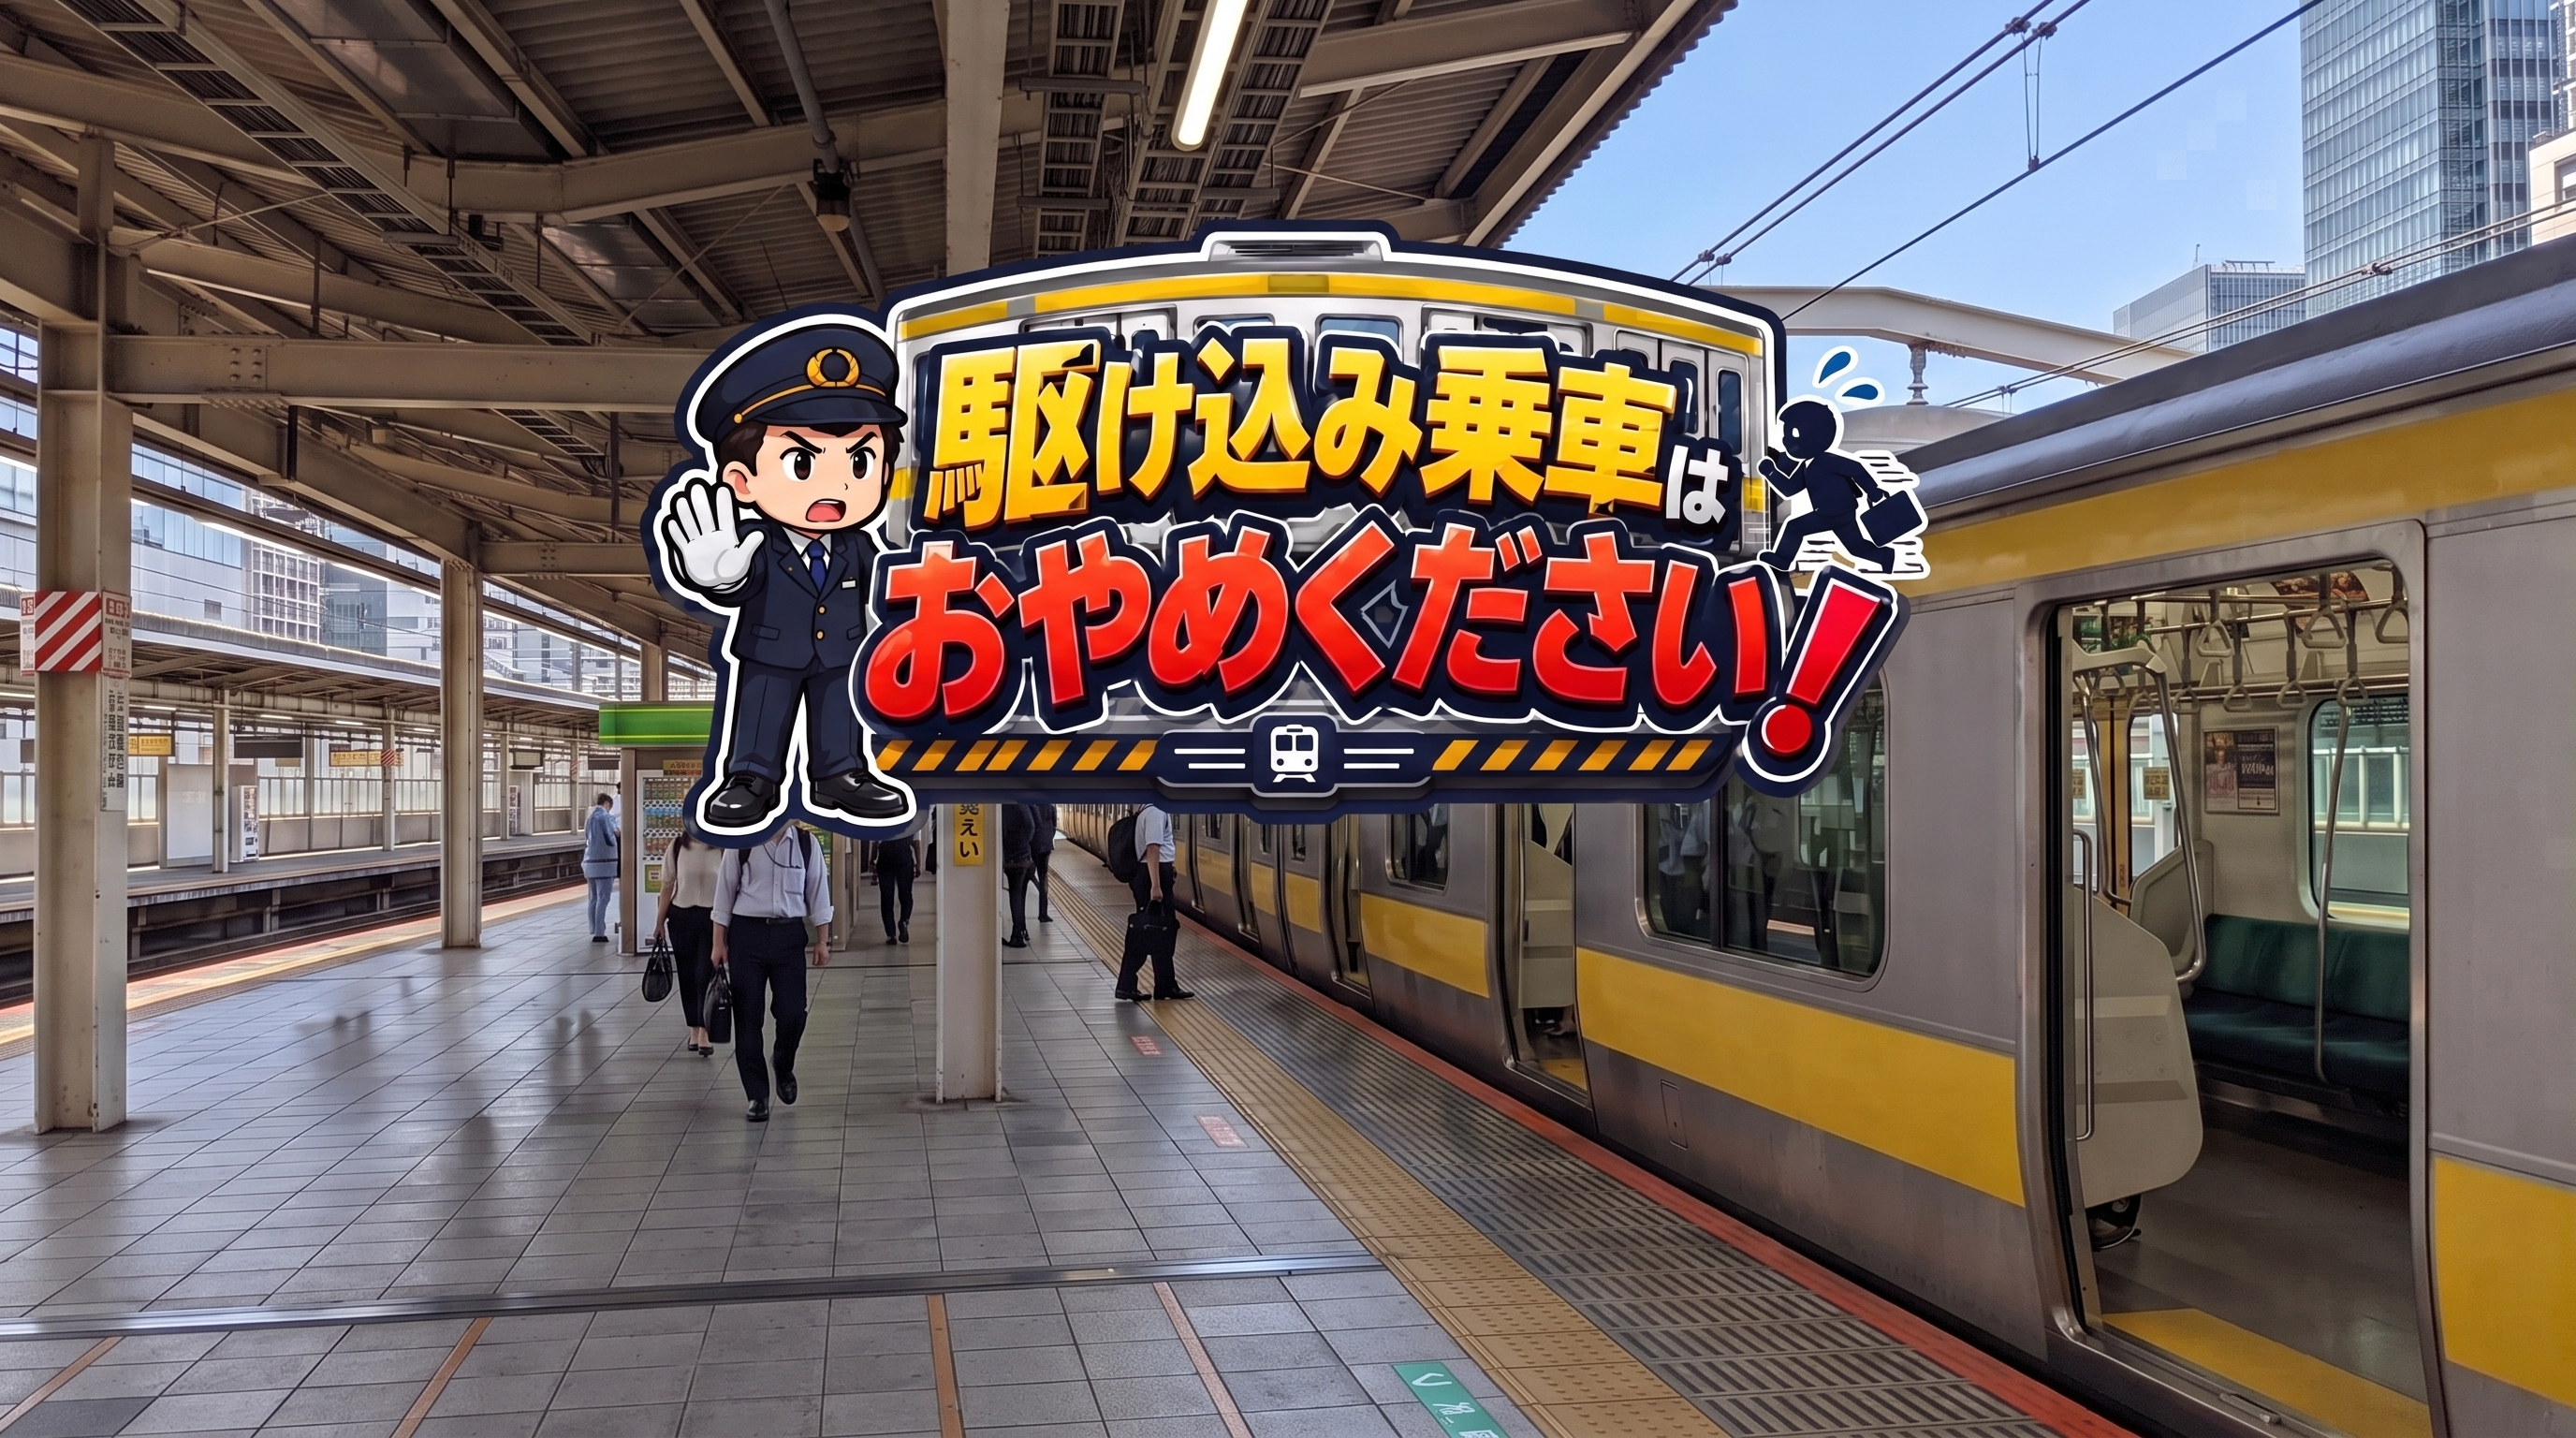
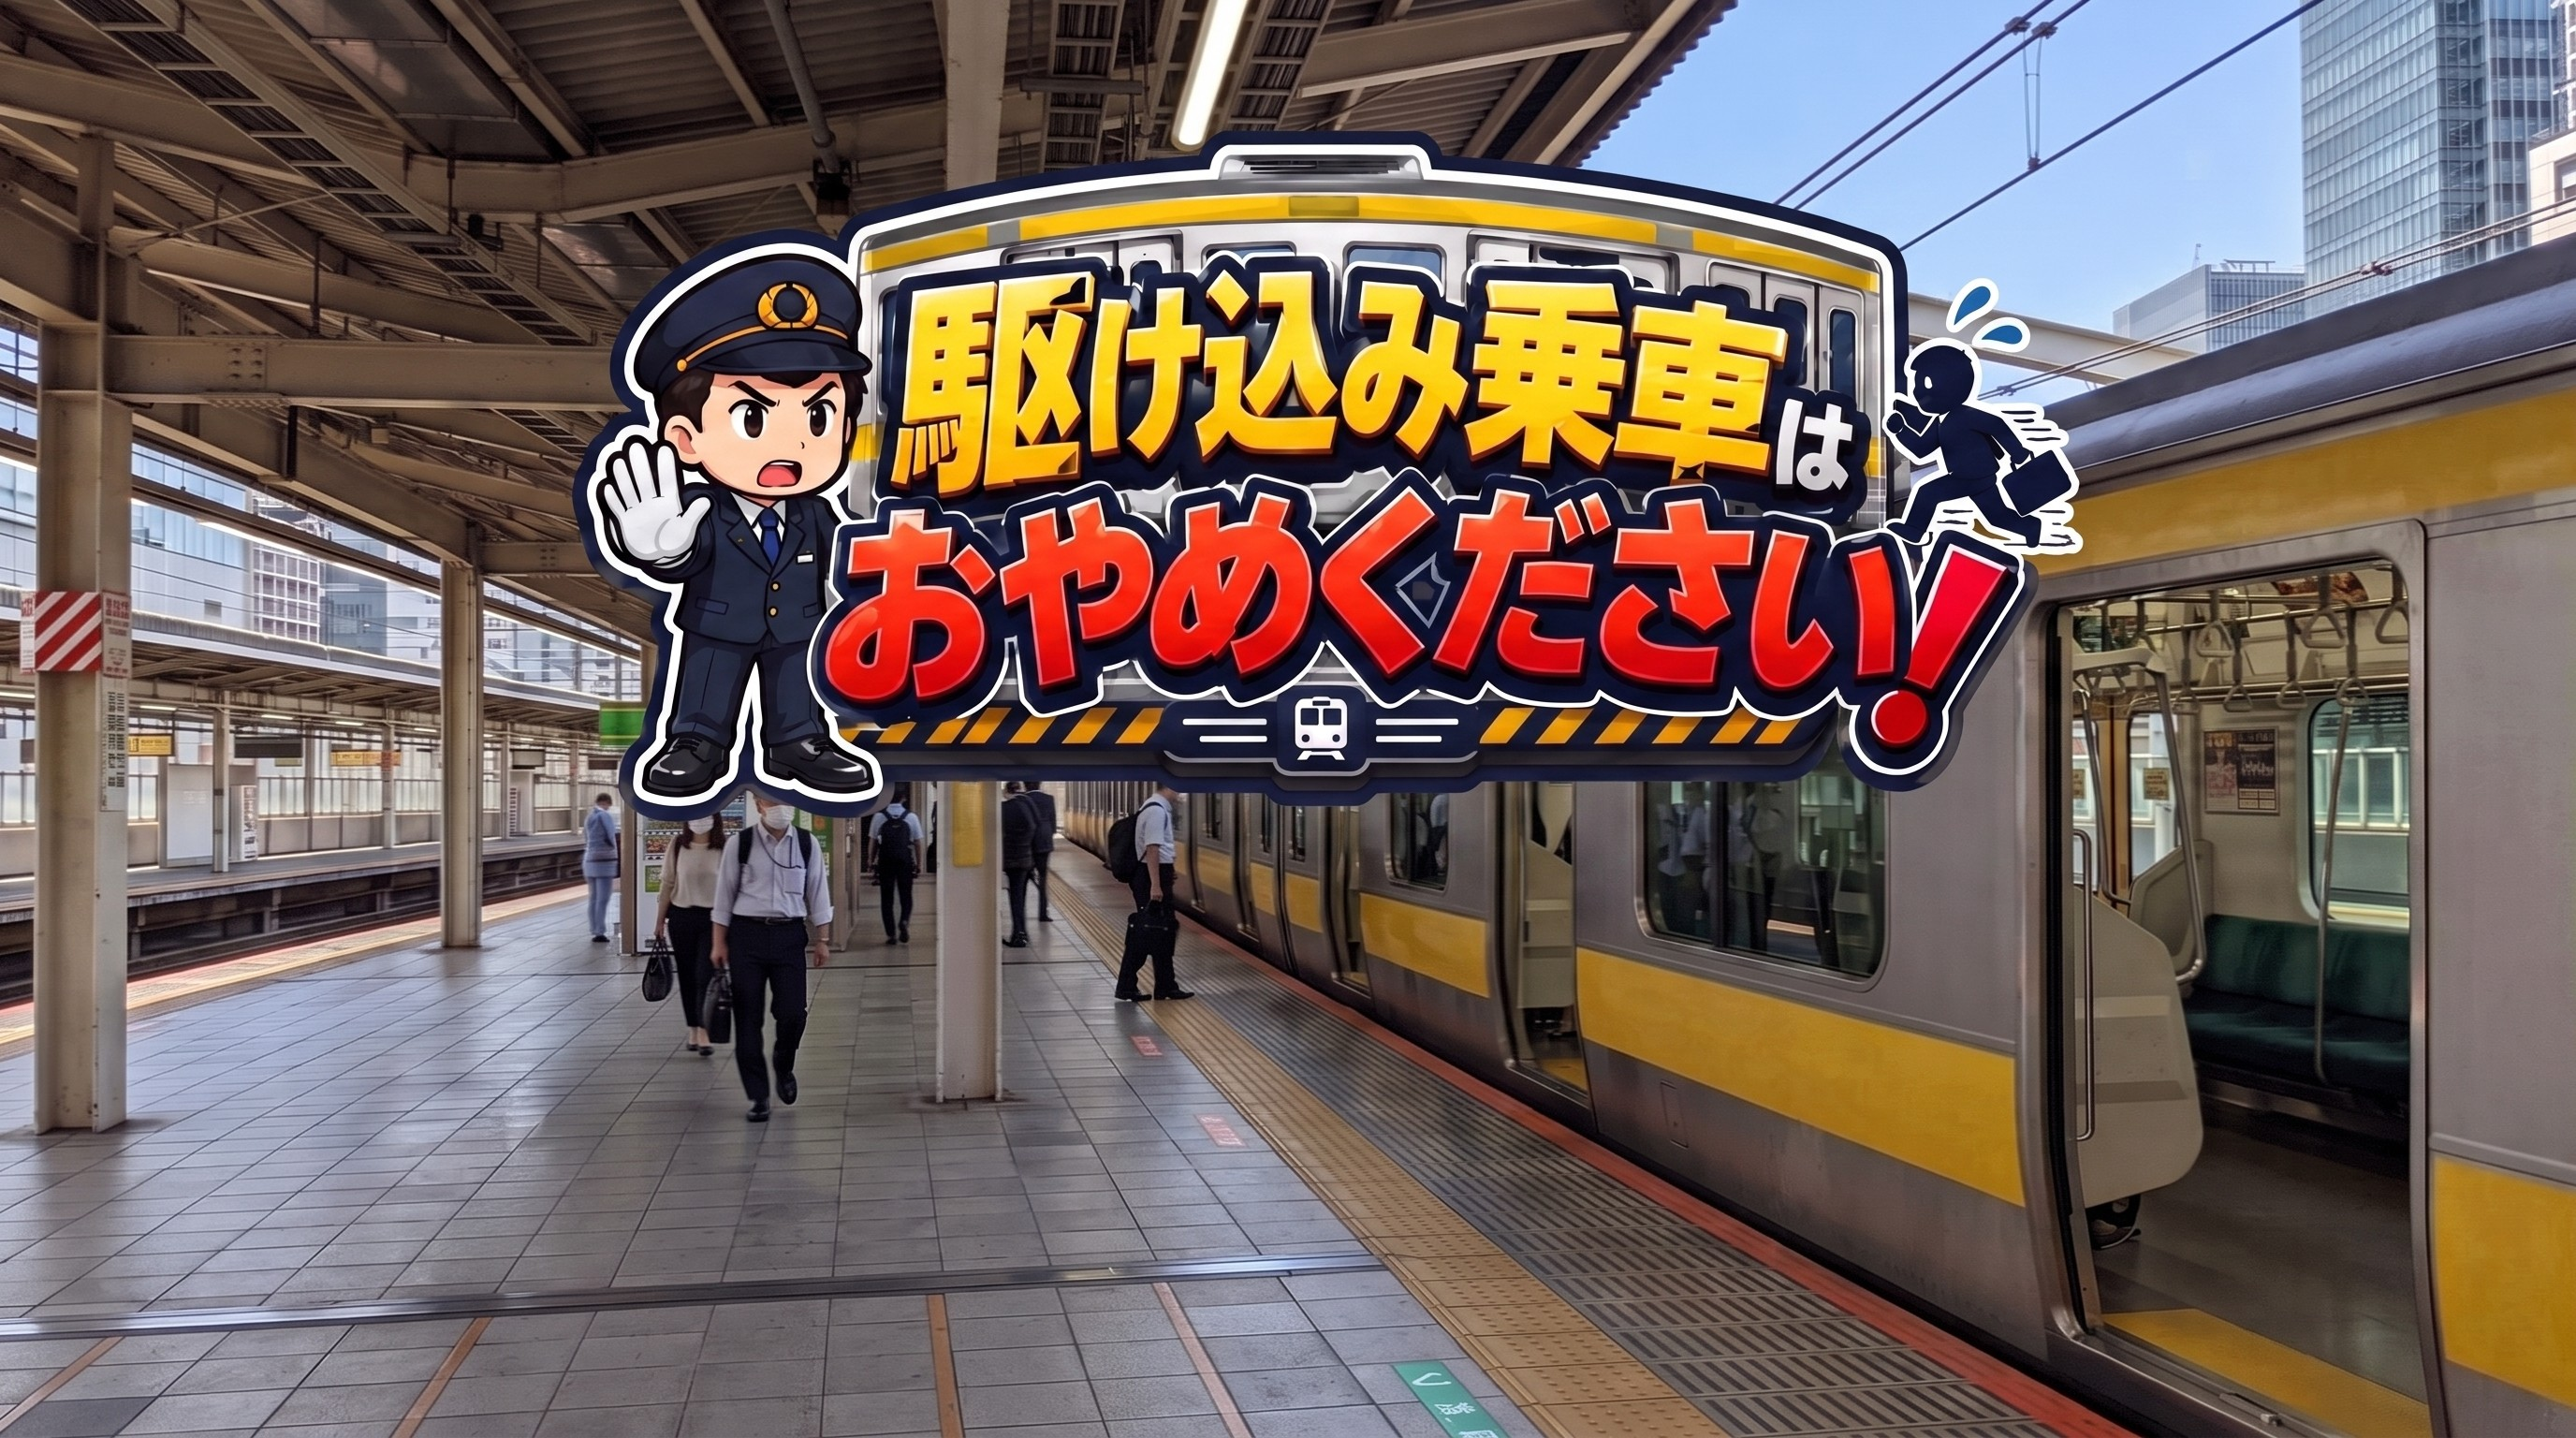
feat: トップ画面作成

diff --git a/style.css b/style.css
@@ -22,7 +22,6 @@ canvas {
 /* ==================================== */
 #top-menu {
     position: absolute;
-    top: 0;
     left: 0;
     width: 100%;
     height: 100%;
@@ -30,12 +29,6 @@ canvas {
     background-image: url("images/top.jpeg"); /* top.jpegを背景画像として設定 */
     background-size: cover; /* 背景画像を要素全体に広げる */
     background-position: center; /* 背景画像を中央に配置 */
-    background-color: rgba(
-        0,
-        0,
-        0,
-        0.5
-    ); /* 画像の上に半透明の黒いオーバーレイをかける */
     display: flex;
     justify-content: center;
     align-items: center;
@@ -44,33 +37,134 @@ canvas {
 }
 .menu-content {
     text-align: center;
+    margin-top: 300px;
 }
 .game-title {
     font-size: 32px;
     color: #ffcc00; /* 黄色の文字カラー */
     margin-bottom: 40px;
     text-shadow: 2px 2px 4px #000;
+    font-family: Impact, sans-serif; /* ゲーム感のあるフォントに変更 */
 }
 .menu-list {
     list-style: none;
     padding: 0;
+    margin: 0; /* ulのデフォルトマージンをリセット */
+    display: flex; /* Flexboxを有効にして子要素を横並びにする */
+    justify-content: center; /* 子要素を水平方向の中央に配置 */
+    gap: 40px; /* ボタン間の間隔を40pxに設定 */
+    flex-wrap: wrap; /* 画面幅が狭い場合にボタンを折り返す */
 }
 .menu-list li {
-    font-size: 24px;
-    margin: 20px 0;
+    /* li要素自体のスタイルは最小限に */
+    margin: 0;
+    padding: 0;
+}
+
+/* メニューボタンのスタイル */
+.menu-button {
+    display: block; /* ブロック要素にして幅を制御 */
+    width: 300px; /* デスクトップでのボタン幅 */
+    padding: 20px 30px; /* パディングをさらに増やしてボタンを大きく */
+    margin: 20px 0; /* 上下マージンは維持し、左右マージンはgapで調整 */
+    background: linear-gradient(
+        145deg,
+        #4a4a4a,
+        /* ベースのグラデーションを少し明るく */ #2a2a2a
+    );
+    border: 4px solid #ffcc00; /* 枠線をさらに太く、目立つ黄色に */
+    color: #fff; /* ボタンの文字色 */
+    font-size: 17px; /* フォントサイズをさらに大きく */
+    font-family: Impact, sans-serif; /* ゲーム感のあるフォント */
     cursor: pointer;
-    transition: color 0.2s;
+    transition: all 0.15s ease-out; /* ホバー時のラグを短く、より素早く反応するように調整 */
+    text-align: center;
+    text-decoration: none;
+    border-radius: 15px; /* 角をさらに丸く */
+    /* 強化されたbox-shadowでより深い立体感と外側の光 */
+    box-shadow:
+        0 12px 25px rgba(0, 0, 0, 0.8),
+        /* より深いメインの影 */ inset 0 0 20px rgba(255, 255, 255, 0.3),
+        /* より強い内側の光 */ 0 0 15px rgba(255, 204, 0, 0.6); /* 外側の光 */
+    /* 強化されたtext-shadowで文字を光らせる */
+    text-shadow:
+        2px 2px 8px rgba(0, 0, 0, 0.9),
+        /* 強いメインの影 */ 0 0 10px rgba(255, 255, 255, 0.6); /* 文字の光 */
+    letter-spacing: 1px; /* 文字間隔を少し開ける */
+    transform: scale(1); /* 初期スケールを設定 */
+    animation: pulse-glow 2s infinite alternate ease-in-out; /* 脈動アニメーションを追加 */
 }
-/* ホバー（マウスを載せたとき）の演出 */
-.menu-list li:hover {
-    color: #ffcc00;
+
+/* ボタンのホバー（マウスを載せたとき）の演出 */
+.menu-button:hover {
+    background: linear-gradient(
+        145deg,
+        #6a6a6a,
+        /* ホバー時のグラデーションをさらに明るく */ #4a4a4a
+    );
+    color: #ffeb3b; /* 文字色を明るい黄色に */
+    border-color: #fff; /* 枠線を白に */
+    /* ホバー時にさらに強調されたbox-shadowと強い光 */
+    box-shadow:
+        0 18px 30px rgba(0, 0, 0, 0.9),
+        /* より深く、広がる影 */ inset 0 0 25px rgba(255, 255, 255, 0.5),
+        /* より強い内側の光 */ 0 0 25px rgba(255, 204, 0, 0.9); /* 非常に強い外側の光 */
+    /* ホバー時にテキストを強く光らせる */
+    text-shadow:
+        0 0 20px #ffeb3b,
+        /* 強い黄色の光 */ 0 0 30px #ffeb3b; /* さらに広がる黄色の光 */
+    transform: translateY(-7px) scale(1.08); /* より大きく浮き上がり、拡大 */
+    filter: brightness(1.2); /* 全体をさらに明るく */
+    animation: none; /* ホバー時は脈動アニメーションを停止 */
 }
-/* 通常時は矢印を透明にしておき、ホバー時だけ表示する演出 */
-.menu-list li .arrow {
+
+/* ボタン内の矢印のスタイル */
+.menu-button .arrow {
     visibility: hidden;
     margin-right: 10px;
-    color: #ffcc00;
+    color: #ffeb3b; /* 矢印の色も明るい黄色に */
+    font-size: 1.3em; /* 矢印をさらに大きく */
+    vertical-align: middle; /* 垂直方向の位置を調整 */
+    text-shadow: 0 0 8px #ffeb3b; /* 矢印にも光を追加 */
 }
-.menu-list li:hover .arrow {
+/* ボタンホバー時に矢印を表示 */
+.menu-button:hover .arrow {
     visibility: visible;
+    transform: translateX(-10px); /* 矢印がより大きく左に動くアニメーション */
+    transition: transform 0.25s ease-in-out;
+}
+
+/* ボタンがクリックされた時の演出 */
+.menu-button:active {
+    transform: translateY(0) scale(0.95); /* 押し込まれるような効果と少し縮小 */
+    box-shadow:
+        0 5px 10px rgba(0, 0, 0, 0.5),
+        /* 押し込まれた時の影 */ inset 0 0 8px rgba(255, 255, 255, 0.2),
+        0 0 8px rgba(255, 204, 0, 0.4); /* 押し込まれた時の光 */
+    background: linear-gradient(
+        145deg,
+        #222222,
+        #3a3a3a
+    ); /* 押し込まれた感じのグラデーション */
+    filter: brightness(0.9); /* 少し暗く */
+}
+
+/* レスポンシブ対応: 画面幅が768px以下の場合 */
+@media (max-width: 768px) {
+    .menu-button {
+        width: 80%; /* ボタン幅を画面幅の80%に */
+        font-size: 24px;
+        padding: 18px 20px;
+        margin: 15px auto;
+    }
+}
+
+/* レスポンシブ対応: 画面幅が480px以下の場合 */
+@media (max-width: 480px) {
+    .menu-button {
+        width: 90%; /* ボタン幅を画面幅の90%に */
+        font-size: 20px;
+        padding: 15px 18px;
+        margin: 10px auto;
+    }
 }

diff --git a/game.ts b/game.ts
@@ -25,7 +25,7 @@ const passengerImagePaths = [
     "images/green.png",
     "images/people.png",
     "images/red.png",
-    "images/segway.png"
+    "images/segway.png",
 ];
 
 // --- 画像のロード完了を待ってゲームを開始 ---
@@ -49,7 +49,7 @@ playerImage.src = "images/station_staff.png"; // 駅員画像
 playerImage.onload = onImageLoad;
 
 // 全ての客画像をロード
-passengerImagePaths.forEach(path => {
+passengerImagePaths.forEach((path) => {
     const img = new Image();
     img.src = path;
     img.onload = onImageLoad; // ロード完了コールバックを設定
@@ -58,10 +58,10 @@ passengerImagePaths.forEach(path => {
 
 // 🎯 【4つのドアのX座標（1024x576基準）】
 const doorsX = [
-    70,   // 1番左のドア
-    350,  // 左から2番目のドア
-    640,  // 右から2番目のドア（中央右寄りのドア）
-    930   // 1番右のドア
+    70, // 1番左のドア
+    350, // 左から2番目のドア
+    640, // 右から2番目のドア（中央右寄りのドア）
+    930, // 1番右のドア
 ];
 const targetDoorY = 220; // 実際の電車の床面・ドア入り口の高さ
 
@@ -82,7 +82,13 @@ const itemSpawnInterval = 15000; // 15秒間隔でアイテム出現判定
 
 function initGame() {
     // 画面中央に出現
-    player = new Player(canvas.width / 2 - 65, targetDoorY, 130, 130, playerImage);
+    player = new Player(
+        canvas.width / 2 - 65,
+        targetDoorY,
+        130,
+        130,
+        playerImage
+    );
 }
 
 // --- イベントリスナー ---
@@ -102,10 +108,12 @@ interface Rect {
     height: number;
 }
 function checkCollision(rect1: Rect, rect2: Rect): boolean {
-    return rect1.x < rect2.x + rect2.width &&
-           rect1.x + rect1.width > rect2.x &&
-           rect1.y < rect2.y + rect2.height &&
-           rect1.y + rect1.height > rect2.y;
+    return (
+        rect1.x < rect2.x + rect2.width &&
+        rect1.x + rect1.width > rect2.x &&
+        rect1.y < rect2.y + rect2.height &&
+        rect1.y + rect1.height > rect2.y
+    );
 }
 
 // 客を生成する関数（狙うドアの真下から出現し、直進する）
@@ -121,7 +129,17 @@ function spawnPassenger() {
     const chosenPassengerImage = passengerImages[randomImageIndex];
 
     const speed = Math.random() * 2 + 3; // 走る速さ
-    passengers.push(new Passenger(spawnX, canvas.height, 230, 230, speed, chosenDoorX, chosenPassengerImage));
+    passengers.push(
+        new Passenger(
+            spawnX,
+            canvas.height,
+            230,
+            230,
+            speed,
+            chosenDoorX,
+            chosenPassengerImage
+        )
+    );
 }
 
 // --- メインゲームループ ---
@@ -172,13 +190,18 @@ function gameLoop(timestamp: number) {
         if (shouldRemoveItem) {
             // 画面外に出た場合は、このフレームでの衝突判定などは不要
         } else {
-        itemA.draw(ctx);
-        if (player) {
-            const playerBox = { x: player.x, y: player.y, width: player.width, height: player.height };
-            if (itemA.checkCollision(playerBox)) {
-                isHomeDoorActive = true;
-                homeDoorTimeRemaining = 15000; // 15秒間バリア起動
-            }
+            itemA.draw(ctx);
+            if (player) {
+                const playerBox = {
+                    x: player.x,
+                    y: player.y,
+                    width: player.width,
+                    height: player.height,
+                };
+                if (itemA.checkCollision(playerBox)) {
+                    isHomeDoorActive = true;
+                    homeDoorTimeRemaining = 15000; // 15秒間バリア起動
+                }
             }
         }
     }
@@ -186,25 +209,34 @@ function gameLoop(timestamp: number) {
     // 🛡️ バリア（ホームドア）の描画
     if (isHomeDoorActive) {
         ctx.save();
-        doorsX.forEach(doorX => {
+        doorsX.forEach((doorX) => {
             // 各ドアの前に半透明の水色のバリアシールドを描画
-            const gradient = ctx.createLinearGradient(doorX - 60, targetDoorY - 10, doorX - 60, targetDoorY + 20);
+            const gradient = ctx.createLinearGradient(
+                doorX - 60,
+                targetDoorY - 10,
+                doorX - 60,
+                targetDoorY + 20
+            );
             gradient.addColorStop(0, "rgba(0, 255, 255, 0.6)");
             gradient.addColorStop(1, "rgba(0, 128, 255, 0.1)");
             ctx.fillStyle = gradient;
             ctx.fillRect(doorX - 60, targetDoorY - 15, 120, 30);
-            
+
             // シールドの上の境界線（光る枠）
             ctx.strokeStyle = "rgba(0, 255, 255, 0.9)";
             ctx.lineWidth = 3;
             ctx.strokeRect(doorX - 60, targetDoorY - 15, 120, 30);
         });
-        
+
         // バリア有効時の残り時間を画面上部に表示
         ctx.fillStyle = "#00FFFF";
         ctx.font = "bold 24px Arial";
         ctx.textAlign = "center";
-        ctx.fillText(`ホームドア作動中！ 残り ${(homeDoorTimeRemaining / 1000).toFixed(1)}秒`, canvas.width / 2, 40);
+        ctx.fillText(
+            `ホームドア作動中！ 残り ${(homeDoorTimeRemaining / 1000).toFixed(1)}秒`,
+            canvas.width / 2,
+            40
+        );
         ctx.restore();
     }
 

diff --git a/index.html b/index.html
@@ -9,16 +9,17 @@
     <body>
         <div id="top-menu">
             <div class="menu-content">
-                <!-- タイトルロゴ（画像がある場合は img タグに差し替えてください） -->
-                <h1 class="game-title">駆け込み乗車はおやめください！</h1>
-
                 <!-- メニュー選択肢 -->
                 <ul class="menu-list">
-                    <li id="btn-start">
-                        <span class="arrow">▶</span> ゲームスタート
+                    <li>
+                        <button id="btn-start" class="menu-button">
+                            ゲームスタート
+                        </button>
                     </li>
-                    <li id="btn-ranking">
-                        <span class="arrow">▶</span> ランキング
+                    <li>
+                        <button id="btn-ranking" class="menu-button">
+                            ランキング（実装予定）
+                        </button>
                     </li>
                 </ul>
             </div>

diff --git a/menu.js b/menu.js
@@ -18,5 +18,5 @@ btnStart === null || btnStart === void 0 ? void 0 : btnStart.addEventListener("c
 // ランキングボタンを押したとき
 btnRanking === null || btnRanking === void 0 ? void 0 : btnRanking.addEventListener("click", () => {
     // ここにランキング画面を開く、またはポップアップを表示する処理を書く
-    alert("ランキング機能は現在準備中です！");
+    alert("実装までしばらくお待ちください！");
 });

diff --git a/menu.ts b/menu.ts
@@ -21,5 +21,5 @@ btnStart?.addEventListener("click", (): void => {
 // ランキングボタンを押したとき
 btnRanking?.addEventListener("click", (): void => {
     // ここにランキング画面を開く、またはポップアップを表示する処理を書く
-    alert("ランキング機能は現在準備中です！");
+    alert("実装までしばらくお待ちください！");
 });